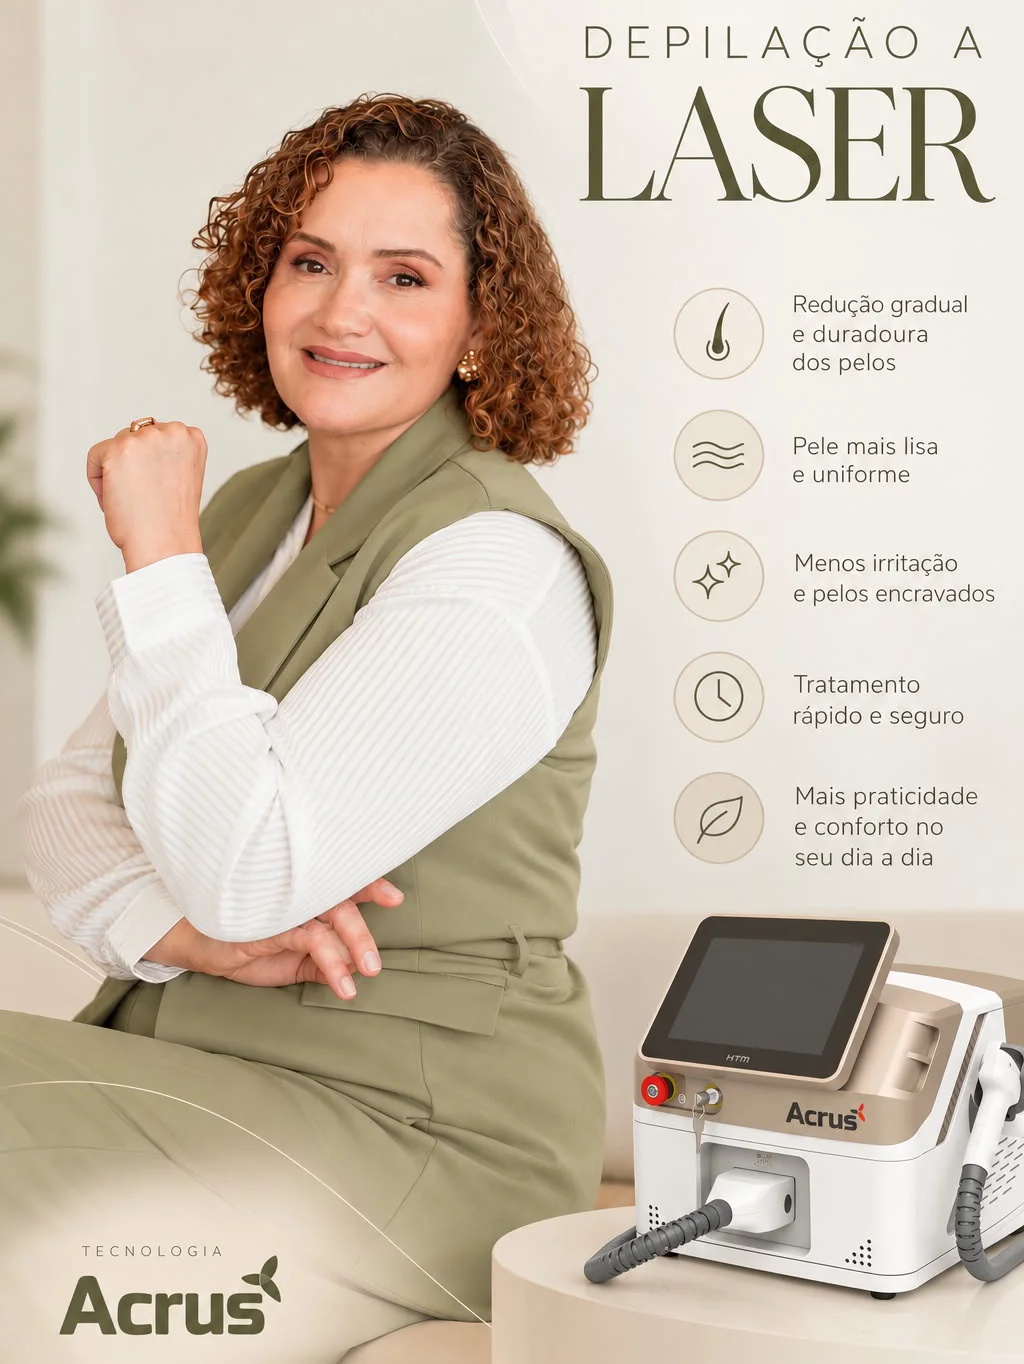
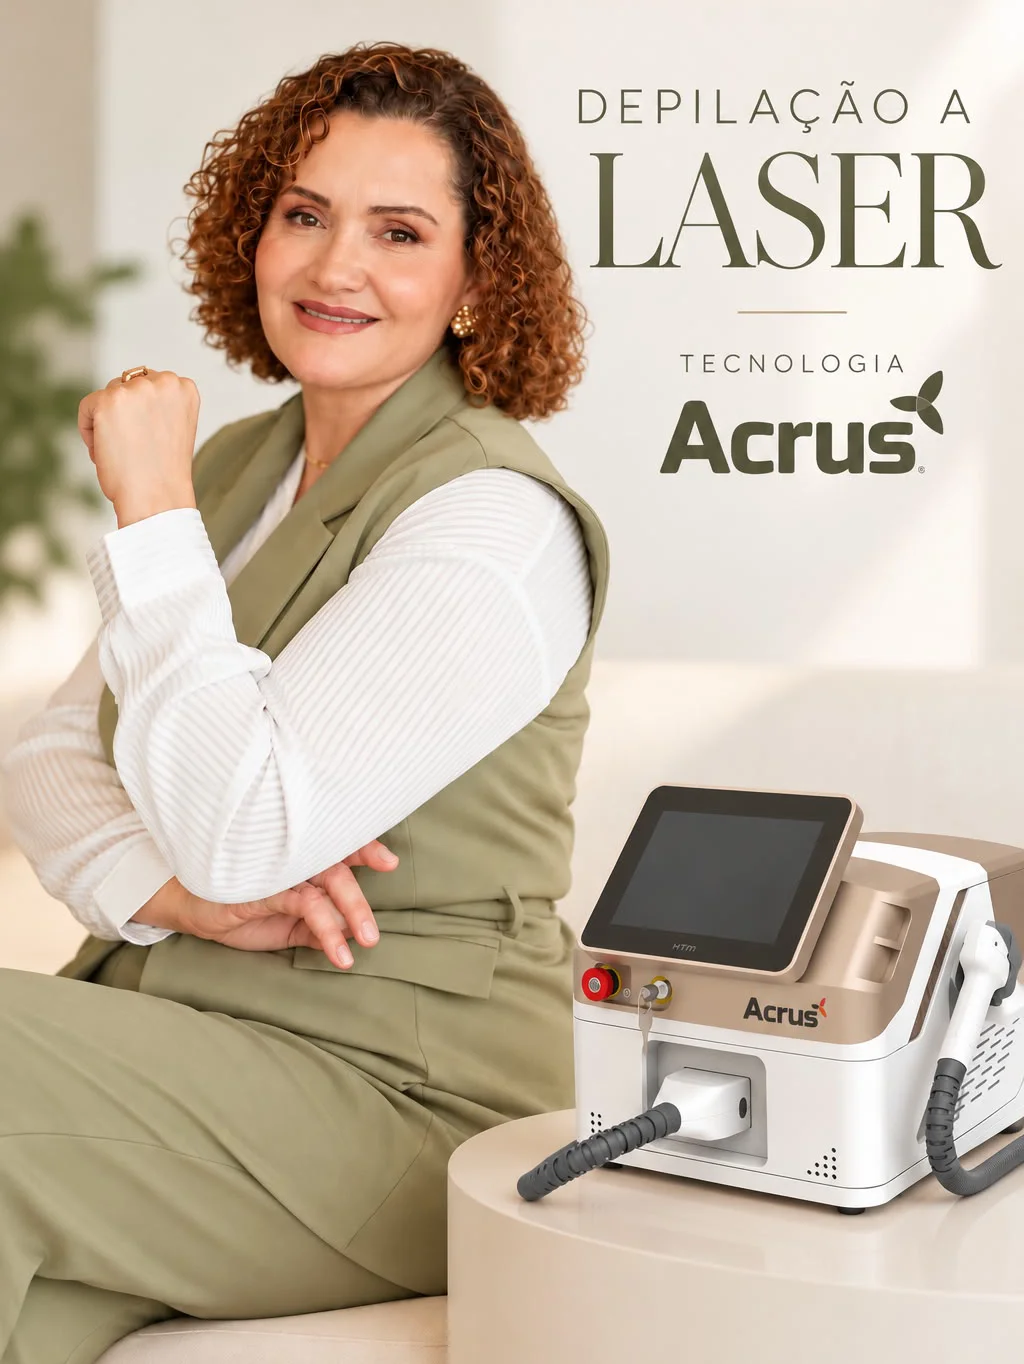
Troca a arte da depilacao a laser pela versao sem a lista de topicos

diff --git a/servicos.html b/servicos.html
@@ -131,8 +131,8 @@ setTimeout(function(){if(h.dataset.revealOk!=='1')h.className=h.className.replac
       <article class="servico servico--inverso reveal" id="laser">
         <div class="servico-foto servico-foto--alta servico-foto--arte">
           <picture>
-            <source srcset="assets/img/serv-laser.webp?v=32" type="image/webp">
-            <img src="assets/img/serv-laser.jpg?v=32" width="1024" height="1364" loading="lazy"
+            <source srcset="assets/img/serv-laser.webp?v=33" type="image/webp">
+            <img src="assets/img/serv-laser.jpg?v=33" width="1024" height="1364" loading="lazy"
                  alt="Cíntia Godoy sentada ao lado do equipamento de depilação a laser Acrus">
           </picture>
         </div>

diff --git a/index.html b/index.html
@@ -227,8 +227,8 @@ setTimeout(function(){if(h.dataset.revealOk!=='1')h.className=h.className.replac
       <article class="servico servico--inverso reveal">
         <div class="servico-foto servico-foto--alta servico-foto--arte">
           <picture>
-            <source srcset="assets/img/serv-laser.webp?v=32" type="image/webp">
-            <img src="assets/img/serv-laser.jpg?v=32" width="1024" height="1364" loading="lazy"
+            <source srcset="assets/img/serv-laser.webp?v=33" type="image/webp">
+            <img src="assets/img/serv-laser.jpg?v=33" width="1024" height="1364" loading="lazy"
                  alt="Cíntia Godoy sentada ao lado do equipamento de depilação a laser Acrus">
           </picture>
         </div>
